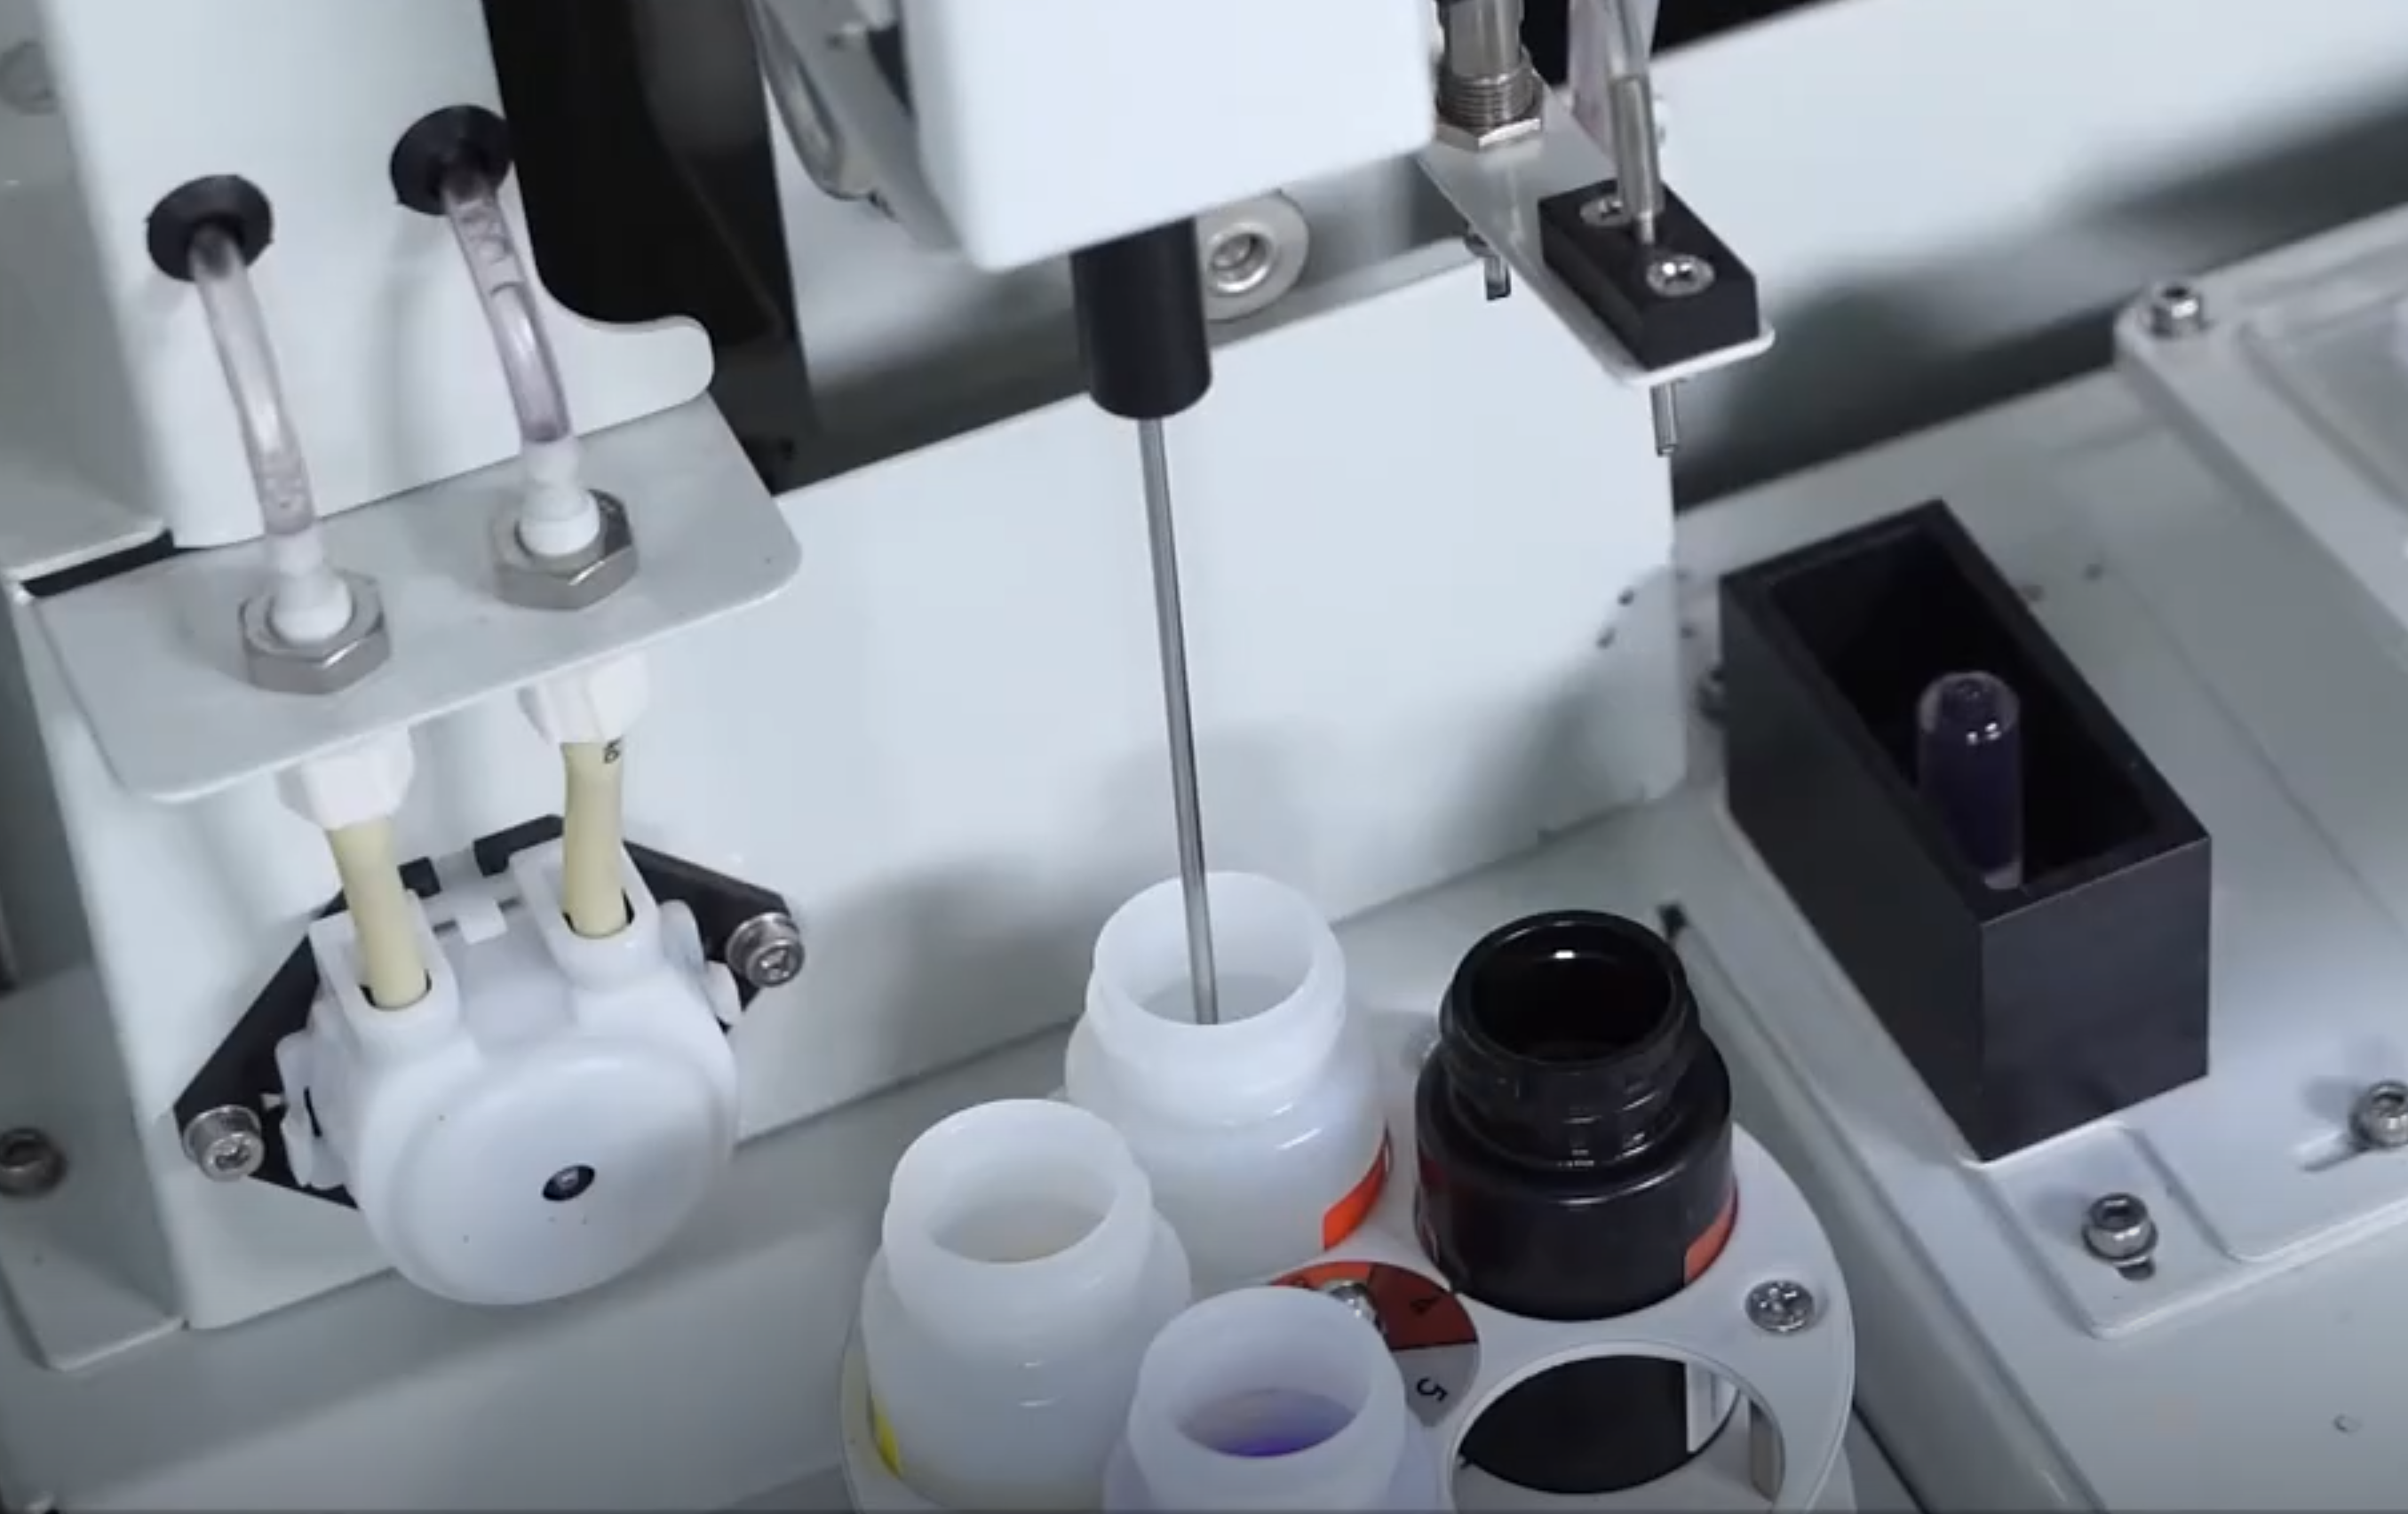
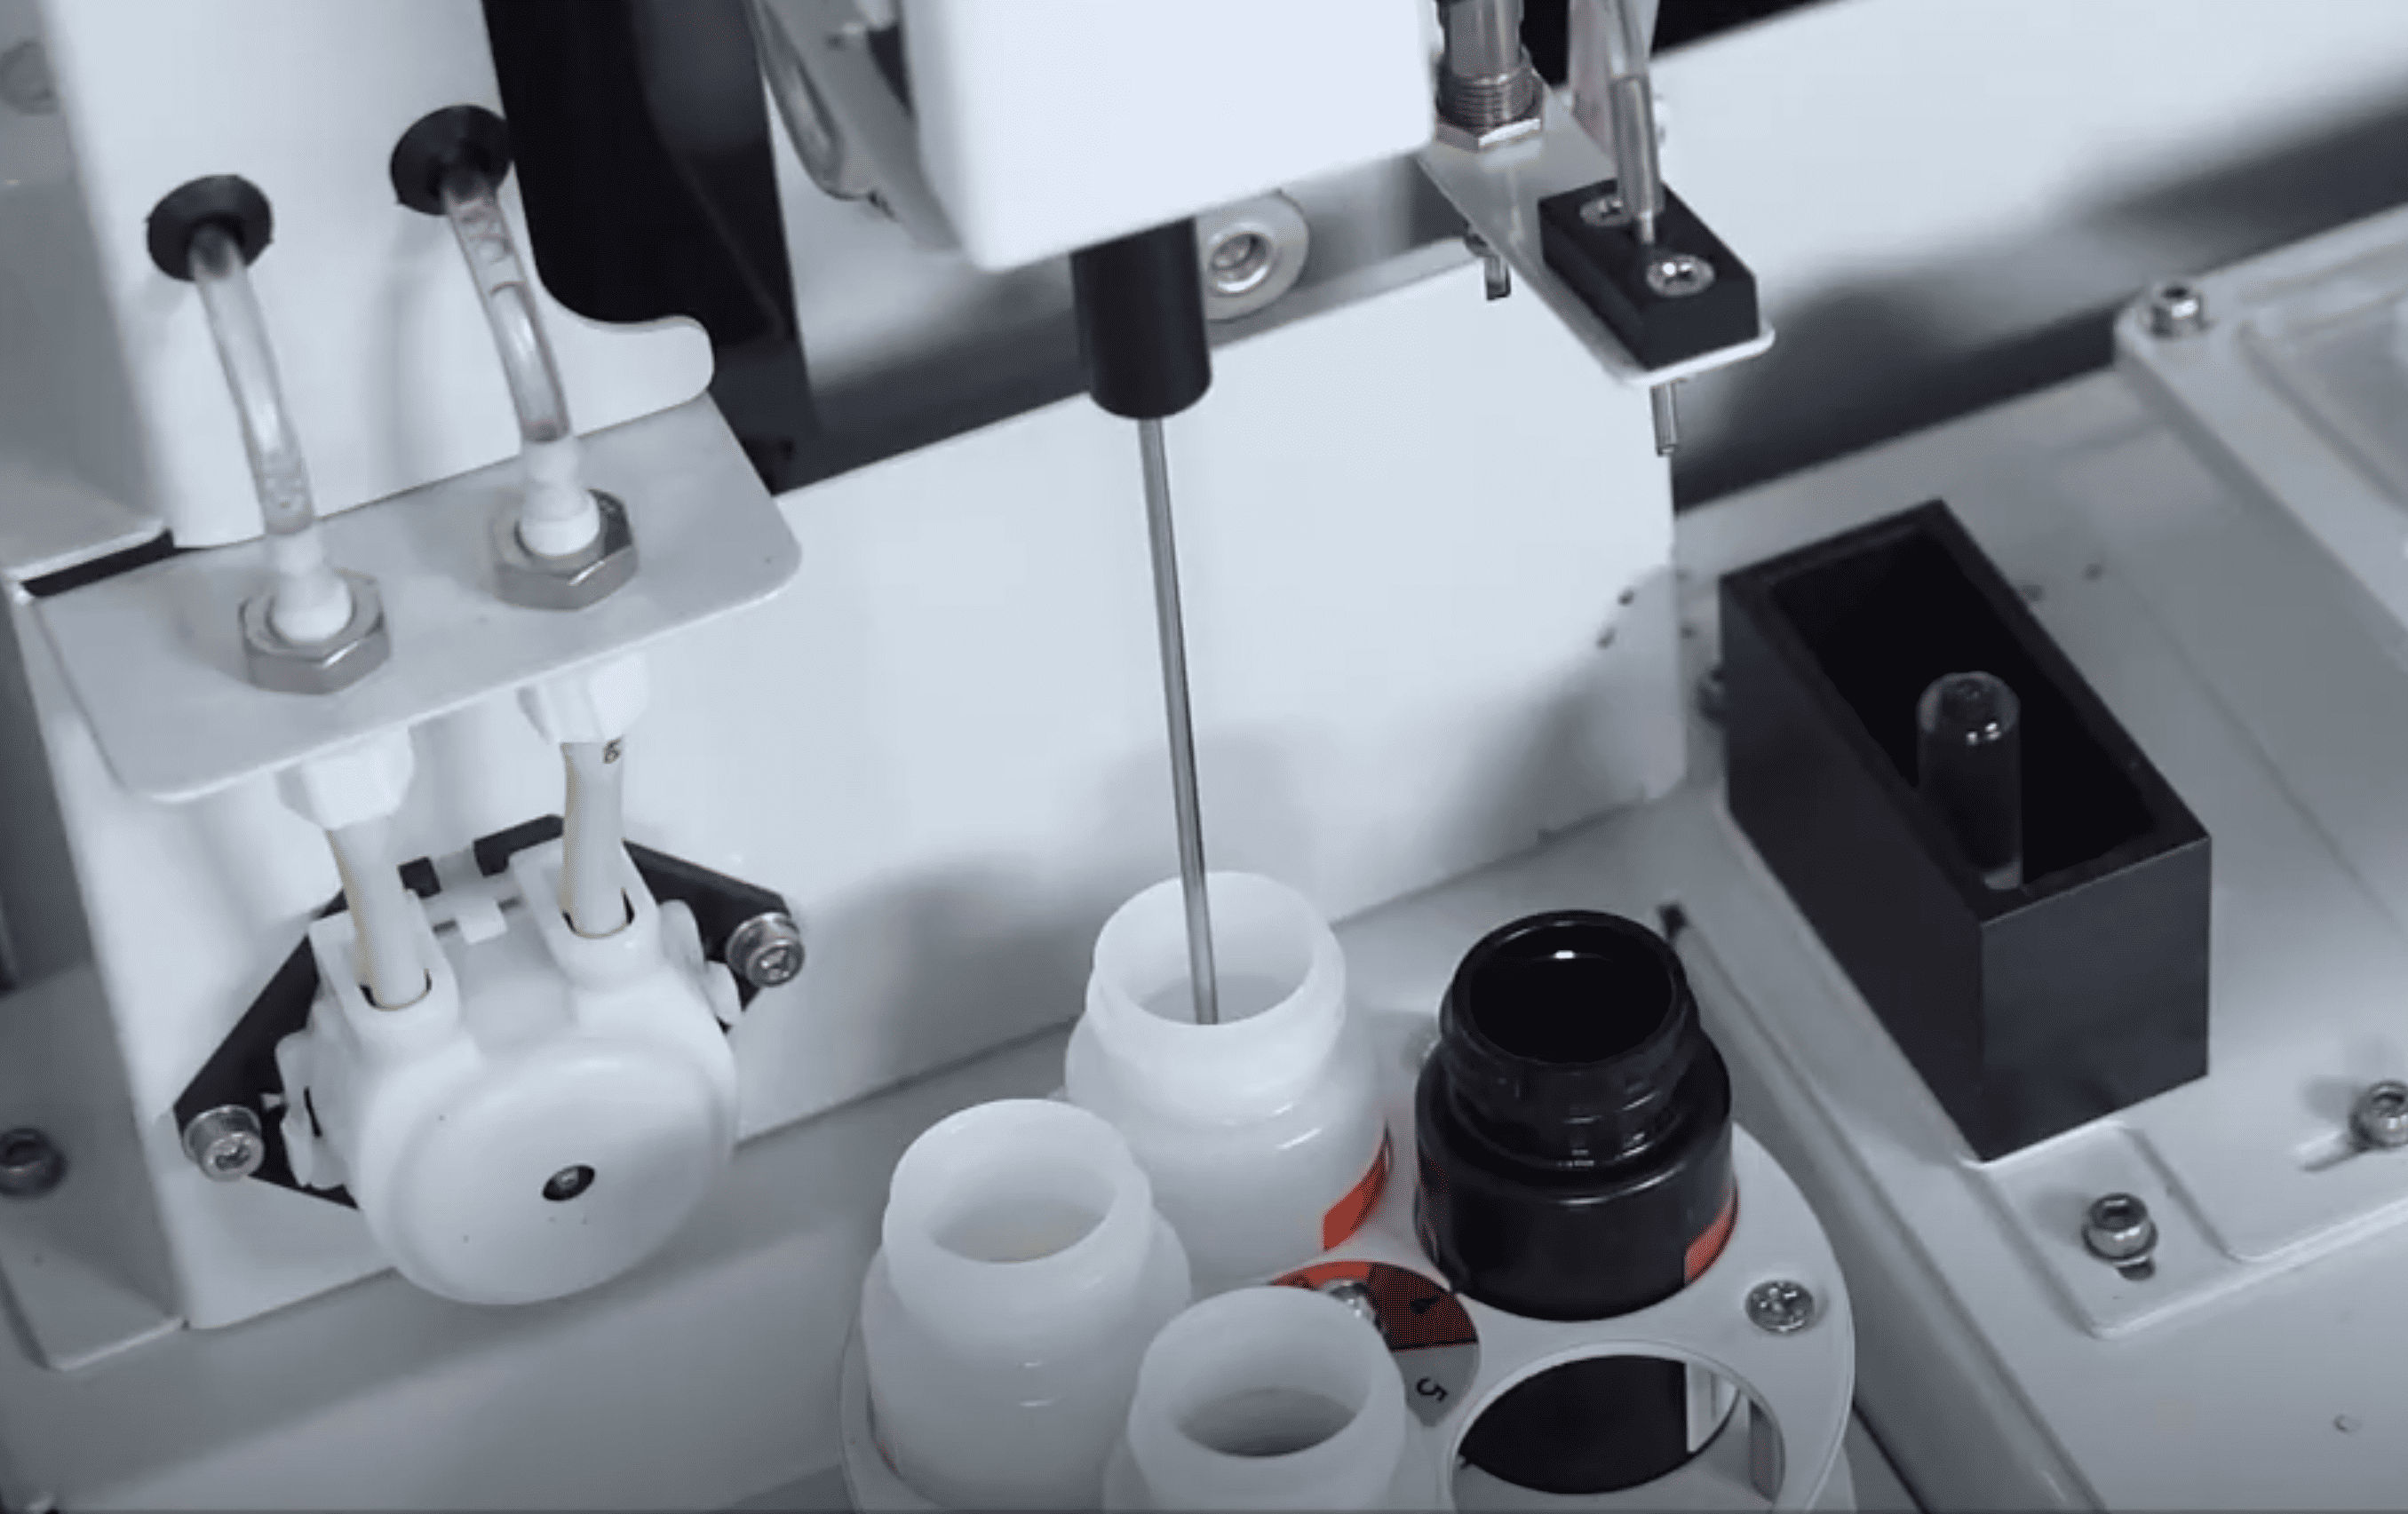
fix: product tax

diff --git a/inc/cpt.php b/inc/cpt.php
@@ -16,13 +16,13 @@ add_action('init', function () {
 			'search_items'  => 'Искать продукцию',
 			'not_found'     => 'Продукция не найдена',
 		],
-		'public'             => true,
-		'has_archive'        => false,
-		'rewrite'            => ['slug' => 'oborudovanie', 'with_front' => false],
-		'supports'           => ['title', 'editor', 'thumbnail', 'excerpt'],
-		'menu_icon'          => 'dashicons-products',
-		'menu_position'      => 5,
-		'show_in_rest'       => true,
+		'public'        => true,
+		'has_archive'   => false,
+		'rewrite'       => false,
+		'supports'      => ['title', 'editor', 'thumbnail', 'excerpt'],
+		'menu_icon'     => 'dashicons-products',
+		'menu_position' => 5,
+		'show_in_rest'  => true,
 	]);
 
 	register_taxonomy('product_category', ['product'], [
@@ -46,13 +46,13 @@ add_action('init', function () {
 			'search_items'  => 'Искать статьи',
 			'not_found'     => 'Статей не найдено',
 		],
-		'public'             => true,
-		'has_archive'        => 'stati-po-allergologii',
-		'rewrite'            => ['slug' => 'stati', 'with_front' => false],
-		'supports'           => ['title', 'editor', 'thumbnail', 'excerpt', 'author'],
-		'menu_icon'          => 'dashicons-admin-post',
-		'menu_position'      => 6,
-		'show_in_rest'       => true,
+		'public'        => true,
+		'has_archive'   => false,
+		'rewrite'       => false,
+		'supports'      => ['title', 'editor', 'thumbnail', 'excerpt', 'author'],
+		'menu_icon'     => 'dashicons-admin-post',
+		'menu_position' => 6,
+		'show_in_rest'  => true,
 	]);
 
 	register_taxonomy('blog_category', ['blogs'], [
@@ -63,56 +63,30 @@ add_action('init', function () {
 		'public'            => true,
 		'hierarchical'      => true,
 		'show_admin_column' => true,
-		'rewrite'           => ['slug' => 'category', 'with_front' => false],
+		'rewrite'           => false,
 		'show_in_rest'      => true,
 	]);
 
 	register_taxonomy_for_object_type('post_tag', 'blogs');
 });
 
-/**
- * Create default catalog terms on theme switch.
- */
-add_action('after_switch_theme', function () {
-	$product_terms = [
-		'ustroystva'  => 'Оборудование',
-		'analizatory' => 'Анализаторы',
-		'reagenty'    => 'Реагенты',
-		'paneli'      => 'Панели',
-	];
 
-	$legacy_slugs = [
-		'oborudovanie' => 'ustroystva',
-		'analyzers'    => 'analizatory',
-		'reagents'     => 'reagenty',
-		'panels'       => 'paneli',
-	];
-
-	foreach ($legacy_slugs as $old_slug => $new_slug) {
-		$term = get_term_by('slug', $old_slug, 'product_category');
-		if ($term && !is_wp_error($term)) {
-			wp_update_term((int) $term->term_id, 'product_category', [
-				'slug' => $new_slug,
-				'name' => $product_terms[$new_slug],
-			]);
-		}
+add_filter('request', function (array $query_vars): array {
+	if (empty($query_vars['pagename']) || isset($query_vars['product_category'])) {
+		return $query_vars;
 	}
 
-	foreach ($product_terms as $slug => $name) {
-		if (!term_exists($slug, 'product_category')) {
-			wp_insert_term($name, 'product_category', ['slug' => $slug]);
-		}
+	if (!preg_match('#^oborudovanie/([^/]+)/?$#', (string) $query_vars['pagename'], $matches)) {
+		return $query_vars;
 	}
 
-	$blog_terms = [
-		'stati'   => 'Статьи',
-		'novosti' => 'Новости',
-	];
-	foreach ($blog_terms as $slug => $name) {
-		if (!term_exists($slug, 'blog_category')) {
-			wp_insert_term($name, 'blog_category', ['slug' => $slug]);
-		}
+	$term = get_term_by('slug', $matches[1], 'product_category');
+	if (!$term || is_wp_error($term)) {
+		return $query_vars;
 	}
 
-	flush_rewrite_rules();
+	unset($query_vars['pagename'], $query_vars['page'], $query_vars['name']);
+	$query_vars['product_category'] = $matches[1];
+
+	return $query_vars;
 });

diff --git a/template-parts/popups.php b/template-parts/popups.php
@@ -15,9 +15,9 @@
 			<h2 class="popup-modal__title title title-popup">Свяжитесь с нами для консультации</h2>
 			<p class="popup-modal__lead">Наш специалист ответит на любые ваши вопросы и&nbsp;поможет сделать выбор</p>
 			<div class="popup-modal__content popup-modal__content--center">
-				<form class="popup-modal__form" action="<?php echo esc_url(admin_url('admin-ajax.php')); ?>" method="post" data-popup-form="">
+				<div class="popup-modal__form"  >
 					<?php alergobot_cf7_form('cf7_konsultaciya'); ?>
-				</form>
+				</div>
 			</div>
 		</div>
 	</div>
@@ -28,9 +28,9 @@
 				<div class="popup-modal__content">
 					<h2 class="popup-modal__title title title-popup">Оформить заказ</h2>
 					<p class="popup-modal__lead">Заполните форму заказа, чтобы получить предварительную консультацию и ответы на вопросы, которые вас интересует по оборудованию</p>
-					<form class="popup-modal__form" action="<?php echo esc_url(admin_url('admin-ajax.php')); ?>" method="post" data-popup-form="">
+					<div class="popup-modal__form" >
 						<?php alergobot_cf7_form('cf7_zakaz'); ?>
-					</form>
+					</div>
 				</div>
 				<div class="popup-modal__visual" aria-hidden="true">
 					<div class="popup-modal__photo">

diff --git a/inc/template-functions.php b/inc/template-functions.php
@@ -524,14 +524,11 @@ if (!function_exists('alergobot_get_product_category_term_id')) {
 if (!function_exists('alergobot_get_product_category_link')) {
 	function alergobot_get_product_category_link($slug, $fallback = '')
 	{
-		$term_id = alergobot_get_product_category_term_id($slug);
-		if (!$term_id) {
+		if (!alergobot_get_product_category_term_id($slug)) {
 			return $fallback ?: alergobot_catalog_url();
 		}
 
-		$link = get_term_link($term_id, 'product_category');
-
-		return is_wp_error($link) ? ($fallback ?: alergobot_catalog_url()) : $link;
+		return home_url(user_trailingslashit('oborudovanie/' . $slug));
 	}
 }
 

diff --git a/template-parts/pages/katalog.php b/template-parts/pages/katalog.php
@@ -47,10 +47,7 @@ $has_request = $request_title || $request_note || $request_lead;
 									continue;
 								}
 
-								$tag_url = get_term_link($term);
-								if (is_wp_error($tag_url)) {
-									continue;
-								}
+								$tag_url = alergobot_get_product_category_link($term->slug);
 								?>
 								<li class="heading__tags-item">
 									<a class="heading__tag" href="<?php echo esc_url($tag_url); ?>" data-animate="scale">